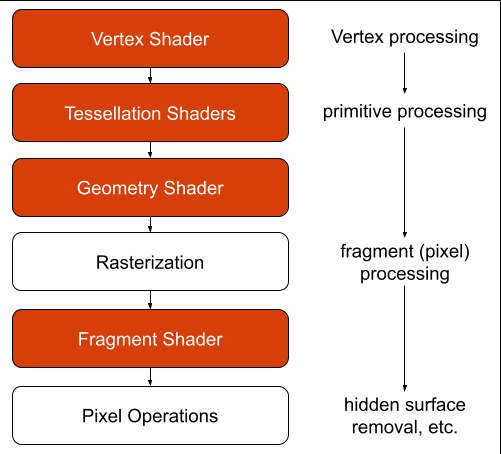
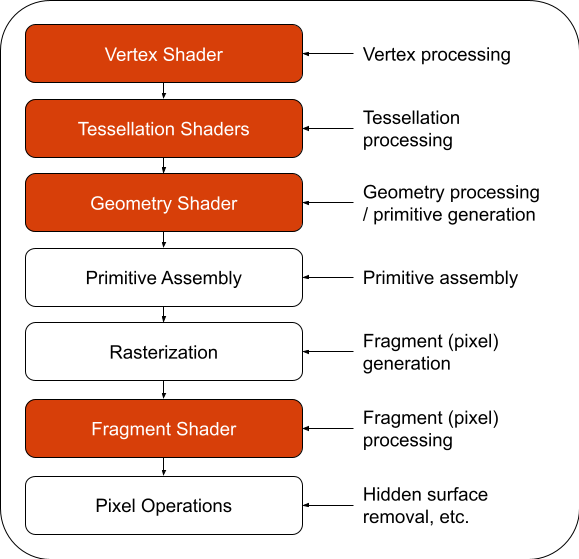
updated the pipeline diagram to add Primitive Assembly

diff --git a/undesignated_pages/primitives.md b/undesignated_pages/primitives.md
@@ -1,0 +1,8 @@
+# CLOs
+* CLO 2 - Describe the names and functions of the elements of the graphics pipeline, as well as the input and output of each stage.
+
+# Introduction
+
+Think back to when we went over the [OpenGL Pipeline](../undesignated_pages/opengl_pipeline.md). What came after *Vertex Processing*?
+
+**HIDE ANSWER** That's right! After the vertex shader is processed, the pipeline moves into *Primitive Processing*.